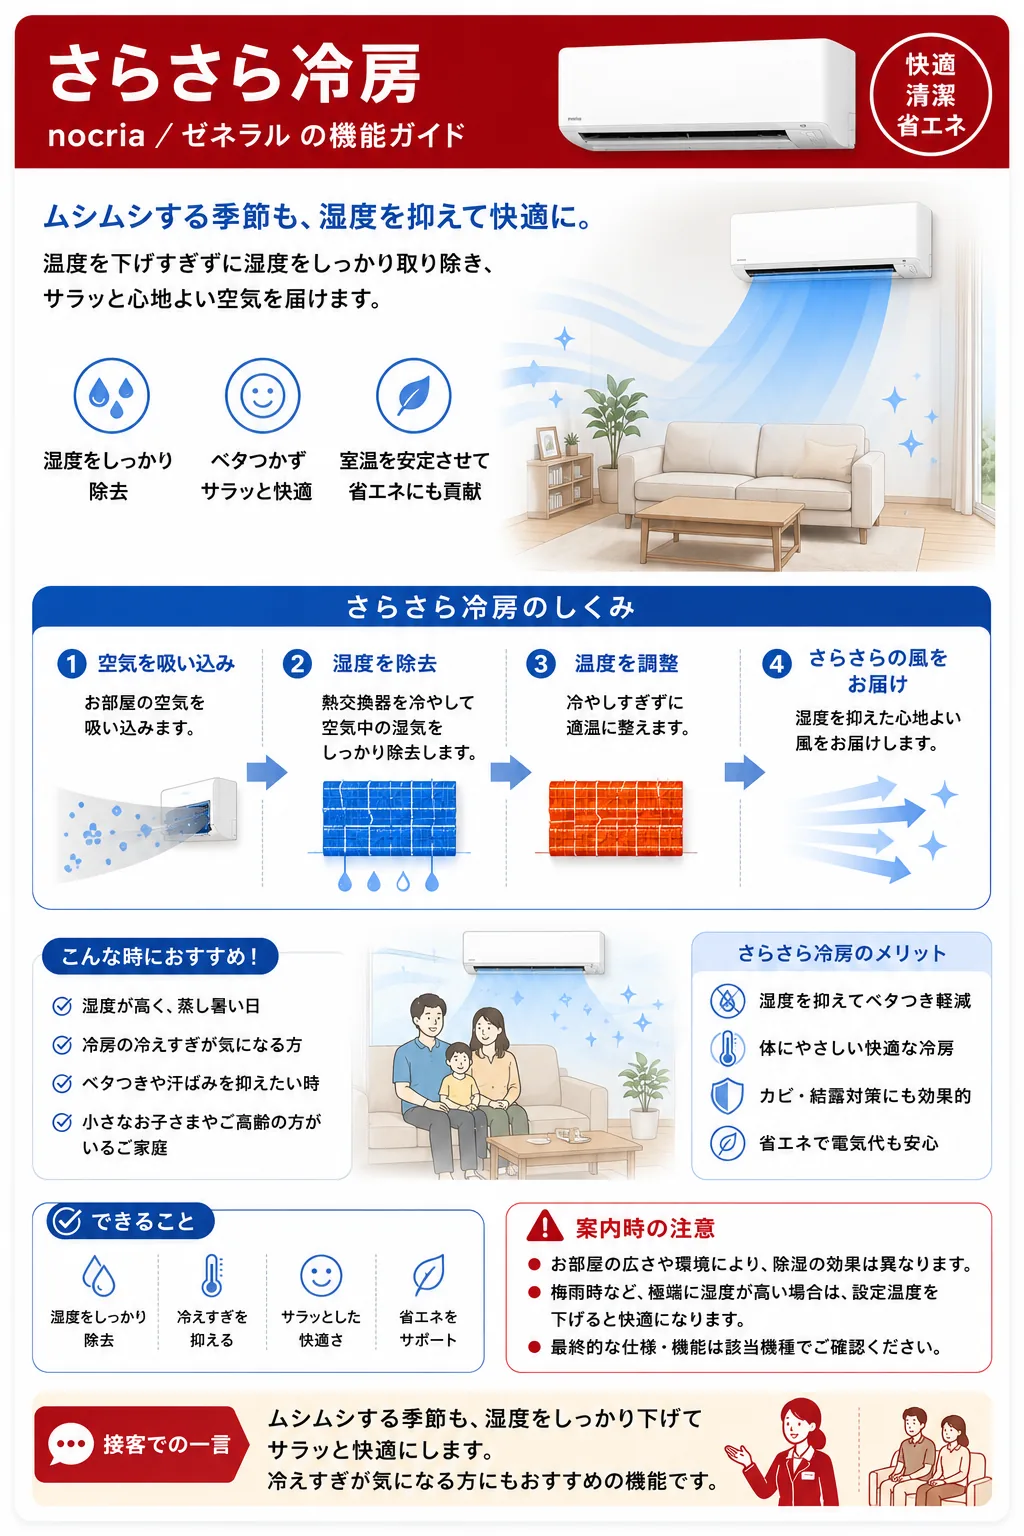
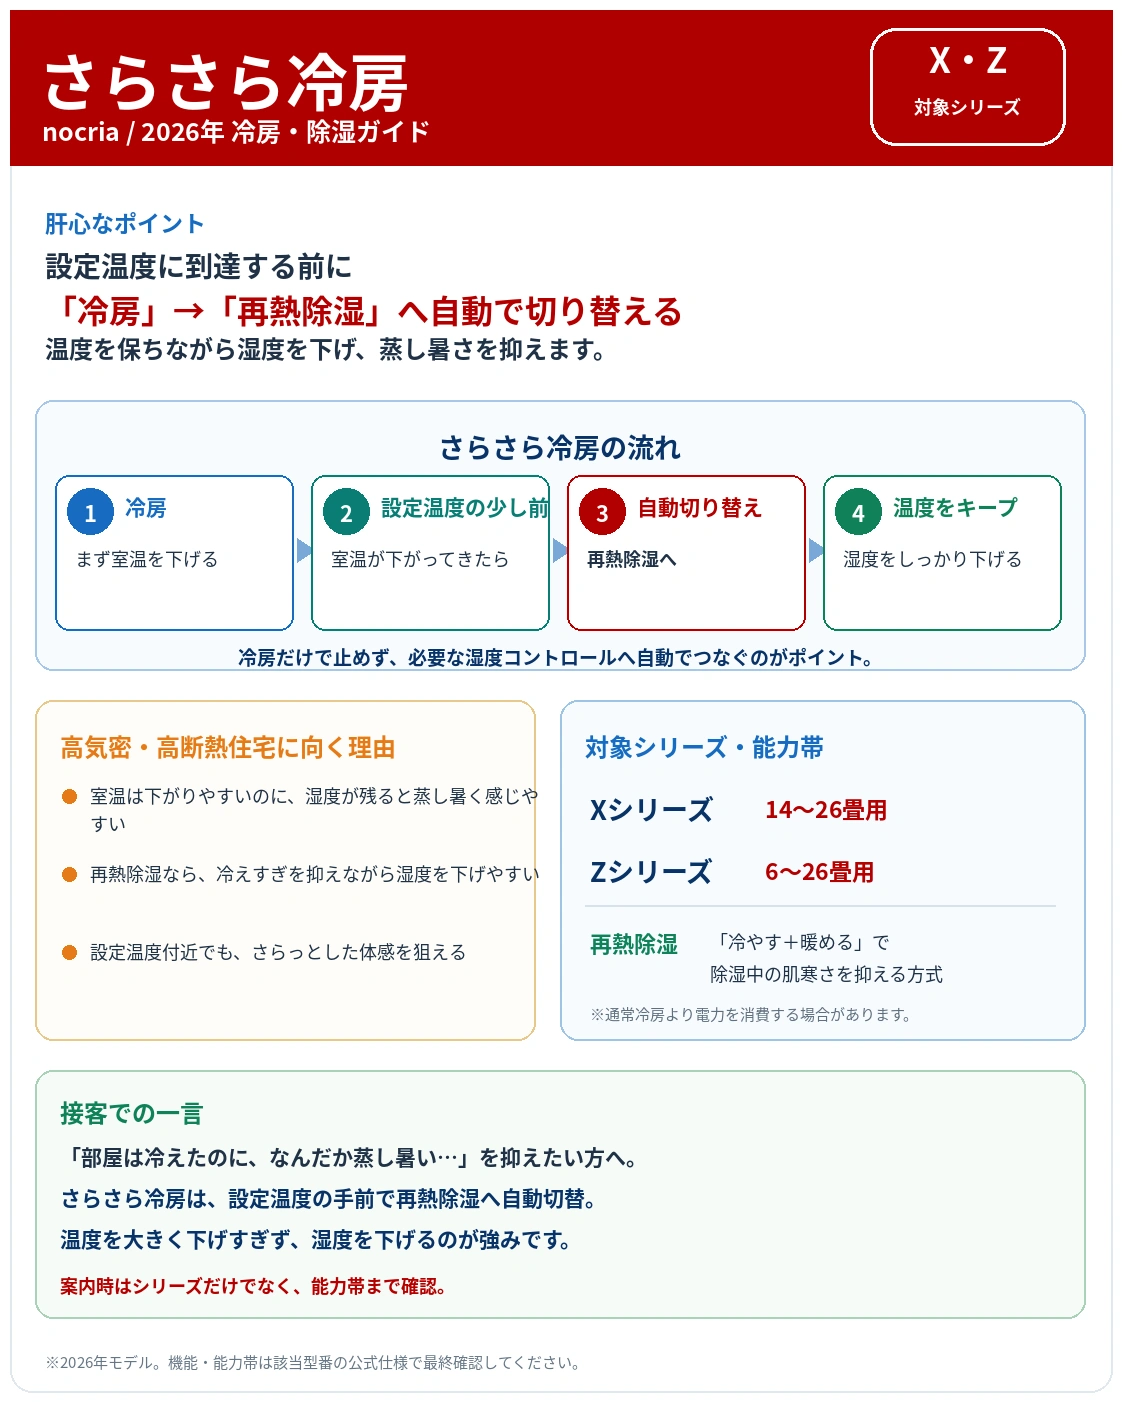
Add files via upload

diff --git a/index.html b/index.html
@@ -4,7 +4,7 @@
 <meta charset="utf-8">
 <meta name="viewport" content="width=device-width,initial-scale=1,viewport-fit=cover">
 <meta name="theme-color" content="#ffffff">
-<title>エアコン販買マスター Pro Ver.6.10.0 日立資料反映版</title>
+<title>エアコン販買マスター Pro Ver.6.10.1 玉ちゃん指摘・ゼネラル修正版</title>
 <link rel="apple-touch-icon" sizes="180x180" href="apple-touch-icon.png?v=3890">
 <link rel="icon" type="image/png" sizes="32x32" href="favicon-32.png?v=3890">
 <style>
@@ -1294,7 +1294,7 @@ html,body{max-width:100%;overflow-x:hidden}
 
 
 <style id="v630-sharp-lux-final">
-/* Ver.6.10.0 日立資料反映版：iPad/iPhone見切れ対策 */
+/* Ver.6.10.1 玉ちゃん指摘・ゼネラル修正版：iPad/iPhone見切れ対策 */
 #visualGrid .visual-card[data-cat="sharp"]{
   overflow:hidden!important;
   padding:10px!important;
@@ -1434,7 +1434,7 @@ html,body{max-width:100%;overflow-x:hidden}
 #general .maker-status-list span,#mitsubishi .maker-status-list span{min-width:42px;text-align:center}
 @media(max-width:700px){#general .hitachi-flow-row,#mitsubishi .hitachi-flow-row{grid-template-columns:1fr!important}#general .hitachi-flow-row i,#mitsubishi .hitachi-flow-row i{transform:rotate(90deg)}}
 
-/* ===== Ver6.10.0 Tamachan Feedback Fully Applied ===== */
+/* ===== Ver6.10.1 Tamachan Feedback Fully Applied ===== */
 .visual-grid{grid-template-columns:repeat(2,minmax(0,1fr));gap:18px}
 .visual-card{position:relative;border:1px solid #cfe0ef;border-radius:24px;background:linear-gradient(180deg,#fff 0%,#f8fbff 100%);overflow:hidden;box-shadow:0 14px 34px rgba(20,61,102,.10)}
 .visual-card::before{content:"";display:block;height:7px;background:linear-gradient(90deg,#0d6ee8,#61a9ff)}
@@ -1484,7 +1484,7 @@ html,body{max-width:100%;overflow-x:hidden}
     <div class="brand">
       <span class="brand-snow">❄</span>
       <span>エアコン販買マスター</span>
-      <small>Ver.6.10.0 日立資料反映版</small>
+      <small>Ver.6.10.1 玉ちゃん指摘・ゼネラル修正版</small>
     </div>
     <button class="icon-button status-button" onclick="openMission()" aria-label="今日の目標">◎</button>
   </header>
@@ -3389,8 +3389,8 @@ const VISUAL_LIBRARY=[
  {category:"mitsubishi",file:"mitsubishi-settings-v692.webp?v=698",title:"三菱 初期設定",desc:"最初から自動／自分で確認／アプリ接続の3分類。時刻設定は主役にしない。"},
  {category:"mitsubishi",file:"mitsubishi-clean-v692.webp?v=698",title:"三菱 清潔・お手入れ",desc:"3つのボディを図解本体で比較。FZ・Z・R・GEの搭載差も確認。"},
  {category:"mitsubishi",file:"mitsubishi-series-v692.webp?v=698",title:"三菱シリーズ比較",desc:"FZ・Z・R・GEの4シリーズを表そのもので比較。FZのプロペラファンも明記。"},
- {category:"general",file:"general-sarasara-v692.webp",title:"さらさら冷房",desc:"再熱除湿で冷えすぎを抑えながら、湿度をしっかりコントロール。"},
- {category:"general",file:"general-airflow-v692.webp",title:"ノクリア独自の気流制御",desc:"広いお部屋へムラを抑えて届ける気流の考え方を図解。"},
+ {category:"general",file:"general-sarasara-v692.webp?v=6101",title:"さらさら冷房",desc:"設定温度到達前に冷房→再熱除湿へ自動切替。X・Zの対象能力帯まで図解。"},
+ {category:"general",file:"general-airflow-v692.webp?v=6101",title:"ノクリアの気流制御",desc:"Xのハイブリッド気流、X・Zの左右独立ルーバー、X・Z・W・Lのロング気流を比較。"},
  {category:"general",file:"general-clean-v692.webp",title:"熱交換器・内部クリーン",desc:"熱交換器や内部の清潔維持をサポートする機能を整理。"},
  {category:"general",file:"general-eco-v692.webp",title:"省エネ・センサー運転",desc:"人やお部屋の状態を見ながらムダを抑える運転を図解。"},
  {category:"general",file:"general-settings-v692.webp",title:"ゼネラル 初期設定",desc:"時刻・運転モード・風向・タイマー・内部クリーンを整理。"},
